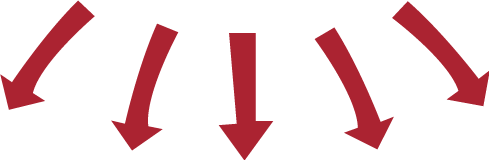
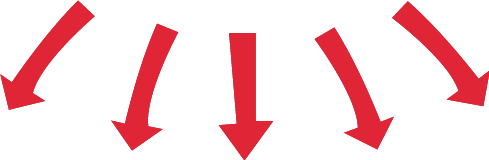
changing red colour

diff --git a/sites/all/themes/civiconlondon2014/css/global.css b/sites/all/themes/civiconlondon2014/css/global.css
@@ -2,7 +2,7 @@
 /* This also can include ANY global CSS that applies site-wide. Unless overwritten by a more specific style rule, CSS declarations in global.css will apply site-wide. */
 
 
-/****   This year's colour: #AA2430   ****/
+/****   This year's colour: #e02536   ****/
 
 body {
 	font-size: 14px;
@@ -26,7 +26,7 @@ h3, h2.block-title {
 	font-size: 1.4285em; /* 20px @ 14px */
 }
 a, a:link, a:visited {
-	color: #AA2430;
+	color: #e02536;
 	text-decoration: none;
 }
 a:hover {
@@ -147,14 +147,17 @@ img#logo {
 #main-menu a.active,
 .nice-menu a:hover,
 .nice-menu a.active {
-	color: #AA2430;
+	color: #e02536;
 }
 #main-menu li.menu-655 a,
 .nice-menu li.menu-655 a {
-	background-color: #AA2430;
+	background-color: #e02536;
 }
 .nice-menu li.menu-655 a.active {
 	color: #fff;
+}
+.nice-menu li.menu-655 a.active:hover {
+	color: #e02536;
 }
 #main-menu li.menu-655 a:hover,
 .nice-menu li.menu-655 a:hover {
@@ -178,7 +181,7 @@ img#logo {
 	padding: 0.25em 0.66em;
 }
 .nice-menu li ul li a:hover {
-	color: #AA2430
+	color: #e02536
 }
 .twitter-icon {
 	position: absolute;
@@ -225,7 +228,7 @@ img#logo {
 	width: 90%;
 	margin: 20px 5%;
 	background-color: #fff;
-	border: 5px solid #AA2430;
+	border: 5px solid #e02536;
 	-moz-border-radius: 30px;
 	-webkit-border-radius: 30px;
 	border-radius: 30px; 
@@ -416,7 +419,7 @@ img#logo {
 }
 .footer-info .content a:hover,
 .footer-lower .content a:hover {
-	color: #AA2430;
+	color: #e02536;
 }
 .footer-right {
 	text-align: right;
@@ -432,7 +435,7 @@ img#logo {
 	-webkit-border-radius: 30px;
 	border-radius: 30px; 
 	-khtml-border-radius: 30px;
-	border: 5px solid #AA2430;	
+	border: 5px solid #e02536;	
 	text-align: center;
 	font-weight: normal;
 	background-color: #444;
@@ -441,16 +444,16 @@ img#logo {
 .footer-right .btn,
 .footer-right .btn:link,
 .footer-right .btn:visited {
-	background-color: #AA2430;
+	background-color: #e02536;
 	border-color: #fff;
 	margin: 0;
 }
 .btn:hover {
-	background-color: #AA2430;
+	background-color: #e02536;
 	border-color: #444;
 }
 .footer-right .btn:hover {
-	border-color: #AA2430;
+	border-color: #e02536;
 	background-color: #fff;
 	color: #444;
 }
